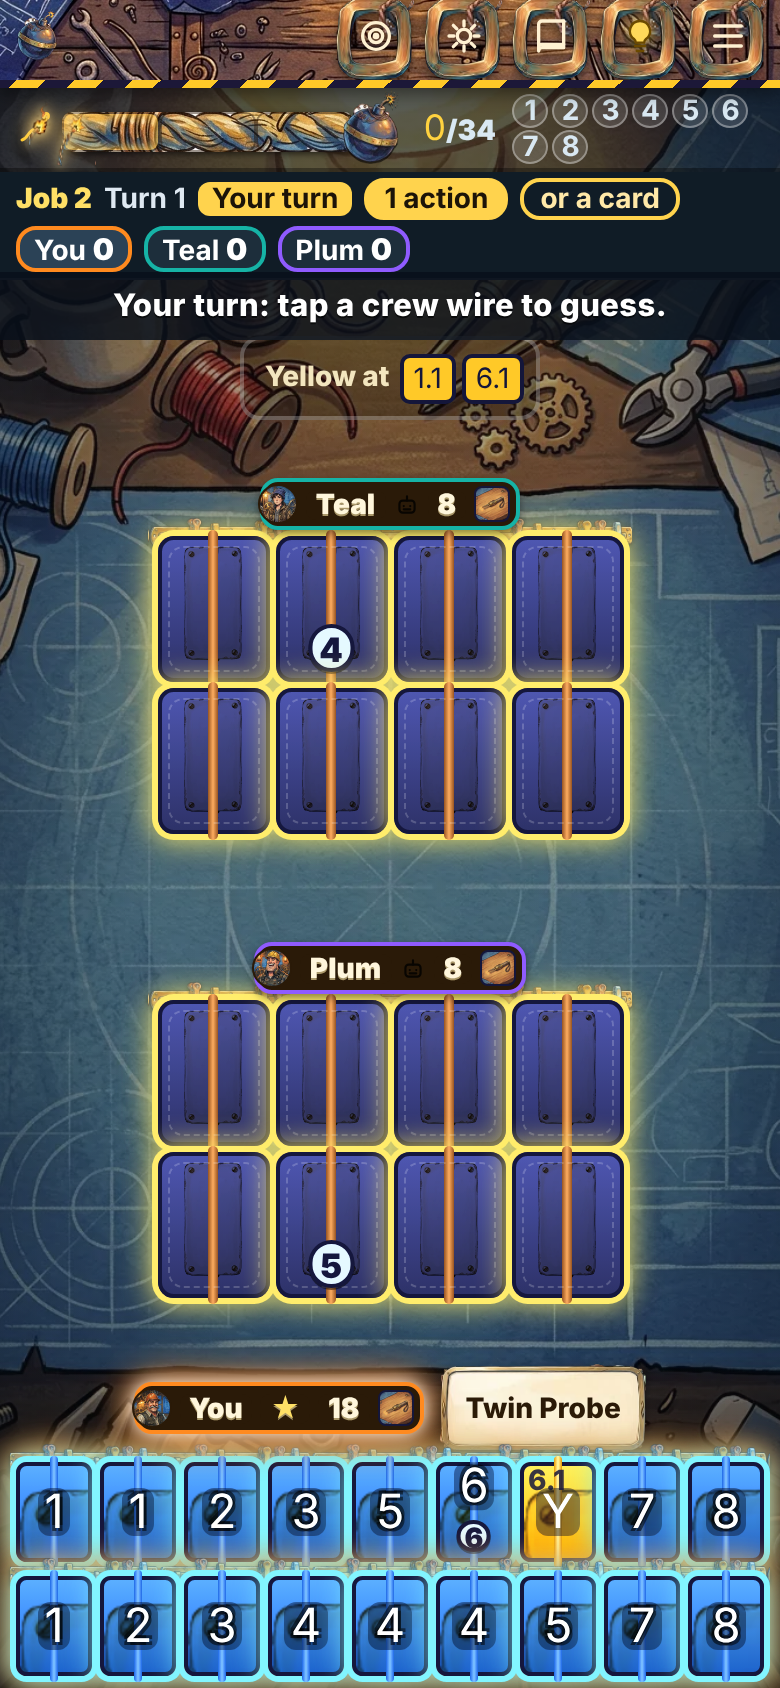
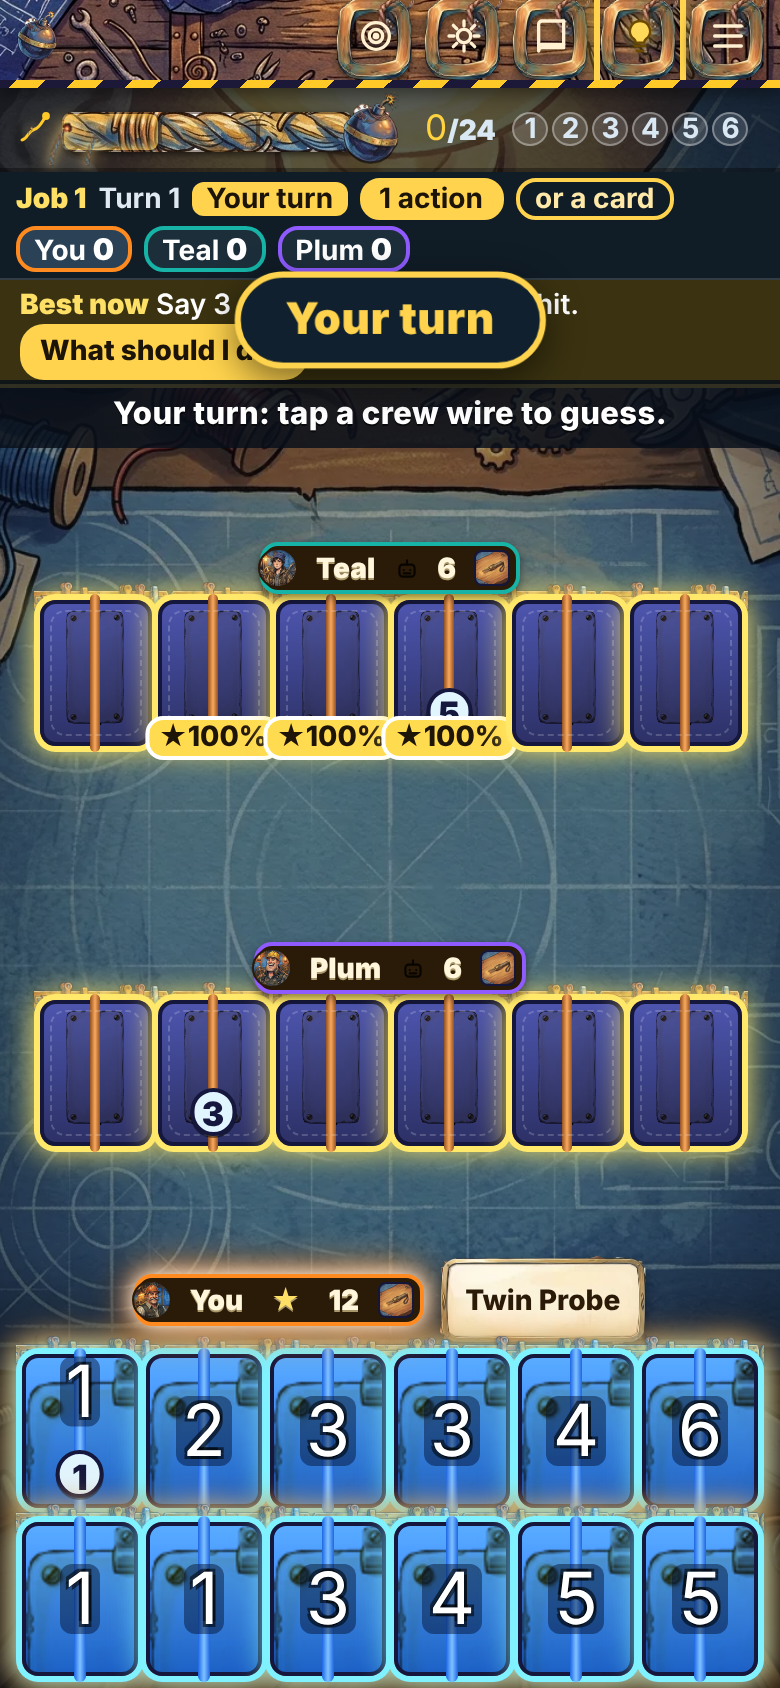
Short Fuse: gentle first jobs (odds hints on by default in jobs 1-3 until the player flips the bulb); the table re-fits the crew when a strip or new crew content takes height (no crew wire under my stand); mission-touch.js plays as a screen-reading new player by default

diff --git a/games-src/short-fuse/game/mission-touch.js b/games-src/short-fuse/game/mission-touch.js
@@ -1,8 +1,9 @@
-// mission-touch.js: a new player plays one full job by touch on a phone (only taps on what glows or on overlay buttons; it follows the hint advisor, as with the bulb on), from the start menu
+// mission-touch.js: a new player plays one full job by touch on a phone (only taps on what glows or on overlay buttons). MODE=new (default): it reads only the screen (the odds badges that are on by default in jobs 1-3); MODE=advisor follows the hint advisor, from the start menu
 // to the result card. Fails on page errors, a status line over 8 words, or a job that never ends.  node mission-touch.js [WxH=390x844] [job=1] [shotsDir]
 const { chromium } = require('playwright');
 const path = require('path');
 const gx = require('../../scripts/gx-serve.js');
+const MODE = process.env.MODE || 'new';   // new = reads the screen (odds badges); advisor = follows the hint advisor
 const [W, H] = (process.argv[2] || '390x844').split('x').map(Number), JOB = +(process.argv[3] || 1), SHOTS = process.argv[4] || '';
 const sleep = ms => new Promise(r => setTimeout(r, ms));
 (async () => {
@@ -13,6 +14,7 @@ const sleep = ms => new Promise(r => setTimeout(r, ms));
   const p = await ctx.newPage(); const bad = new Set(), errs = [];
   p.on('pageerror', e => errs.push(String(e.message).slice(0, 160)));
   await p.goto(URL); await sleep(900);
+  await p.evaluate(m => { window.__mode = m }, MODE);
   await p.evaluate(j => { localStorage.clear(); try { GXT.markDone('short-fuse') } catch (e) { } UI.setup = UI.setup || defaultSetup(); startJob({ job: j, np: 3, seats: ['human', 'ai', 'ai'], lv: 'normal', names: DEFNAMES.slice(), chars: [], captain: 0, seed: 21 }); }, JOB);
   await sleep(800);
   const pick = () => p.evaluate(() => {
@@ -21,8 +23,14 @@ const sleep = ms => new Promise(r => setTimeout(r, ms));
     const ov = [...document.querySelectorAll('#over .big,#cover .big,#over button,#cover button')].find(vis); if (ov && !G.over) return { ...c(ov), k: 'overlay' };
     if (G.over) return { k: 'over' };
     const me = UI.V ? UI.V.seat : -1; if (decider() !== me) return { k: 'wait' };
-    // a new player with hints switched on (the bulb): follow the advised wire when there is one
-    try { const pl = hlpPlan(), e = pl && hlpEl(pl.to); if (e && vis(e)) return { ...c(e), k: 'tile' }; } catch (x) { }
+    if (window.__mode === 'advisor') { try { const pl = hlpPlan(), e = pl && hlpEl(pl.to); if (e && vis(e)) return { ...c(e), k: 'tile' }; } catch (x) { } }
+    else {   // a new player who only reads what is on screen: the starred odds badge (hints default on in jobs 1-3), then the number that badge is for
+      const star = [...document.querySelectorAll('#crew .tile.glow .pvb.best,#crew .tile.glow .pvb')].map(b => b.closest('.tile')).find(vis);
+      if (!UI.sel && star) return { ...c(star), k: 'tile' };
+      if (UI.sel && UI.sel.mode === 'dual' && UI.sel.tg.length === 1 && UI.sel.v == null) { try { const V = UI.V, W = wwk(V), t = UI.sel.tg[0]; let best = null;
+        for (const e of document.querySelectorAll('#mine .tile.glow')) { if (!vis(e)) continue; const sl = G.st[+e.dataset.s].w[+e.dataset.k]; const v = cv(sl.id); const pr = scOdds(V, W, t.st, t.k, v); if (pr != null && (!best || pr > best.p)) best = { p: pr, e }; }
+        if (best) return { ...c(best.e), k: 'tile' }; } catch (x) { } }
+    }
     const g = [...document.querySelectorAll('#tb .tile.glow,#tb .plate.glow,#tb .chip.glow')].filter(vis);
     if (!g.length) return { k: 'none' };
     const crew = g.filter(e => e.classList.contains('crew')), known = crew.filter(e => e.querySelector('.tok,.tk,i.t'));
@@ -45,7 +53,7 @@ const sleep = ms => new Promise(r => setTimeout(r, ms));
   if (!r.over) bad.add('job never ended'); if (!r.card) bad.add('no result card');
   for (const e of errs) bad.add('page error ' + e);
   await b.close();
-  console.log(W + 'x' + H + ' job ' + JOB + ' by touch: ' + taps + ' taps, ' + (r.win ? 'WON' : 'lost: ' + r.why));
+  console.log(W + 'x' + H + ' job ' + JOB + ' by touch (' + MODE + '): ' + taps + ' taps, ' + (r.win ? 'WON' : 'lost: ' + r.why));
   console.log(bad.size ? 'MISSION FAIL\n  ' + [...bad].join('\n  ') : 'MISSION PASS: 0 errors');
   process.exit(bad.size ? 1 : 0);
 })();

diff --git a/games-src/short-fuse/game/tbl.js b/games-src/short-fuse/game/tbl.js
@@ -180,7 +180,7 @@ function layoutTable(){const tb=document.getElementById('tb');if(!tb||!G)return;
     setMine(pick);tm=pick}
   const used=used0+(ms.length?mine.offsetHeight:0);
   const ch=Math.max(40,H-used-gh);t1=crewFit(ch);
-  for(let i=0;i<24;i++){crew.style.setProperty('--tw',t1+'px');crew.style.setProperty('--th',Math.round(t1*1.3)+'px');balance(crew,t1,3);if(crew.scrollHeight<=crew.clientHeight+1||t1<=22)break;t1-=1}
+  for(let i=0;i<60;i++){crew.style.setProperty('--tw',t1+'px');crew.style.setProperty('--th',Math.round(t1*1.3)+'px');balance(crew,t1,3);if(crew.scrollHeight<=crew.clientHeight+1||t1<=22)break;t1-=1}
   // still too tall at the smallest crew tile (short landscape, 4+ players): my stand gives up height until the crew fits, so no crew wire hides under it
   if(ms.length&&land&&crew.scrollHeight>crew.clientHeight+1){mine.classList.add('mrow');setMine(tm);balance(crew,t1,3)}   // first: my name plate moves beside my stand
   while(ms.length&&tm>24&&crew.scrollHeight>crew.clientHeight+1){tm-=2;setMine(tm);balance(crew,t1,3)}
@@ -323,3 +323,11 @@ if(window.GXV)GXV.watch(()=>{try{layoutTable()}catch(e){}});
 else (function(){let t=null,t2=null;const go=()=>{try{layoutTable()}catch(e){}};const deb=()=>{clearTimeout(t);clearTimeout(t2);t=setTimeout(go,60);t2=setTimeout(go,420)};
   window.addEventListener('resize',deb);window.addEventListener('orientationchange',deb);if(window.visualViewport)window.visualViewport.addEventListener('resize',deb);
   const init=()=>{const b=document.getElementById('tb');if(b&&window.ResizeObserver)new ResizeObserver(deb).observe(b)};if(document.readyState==='loading')document.addEventListener('DOMContentLoaded',init);else init()})();
+// anything that grows after a layout (my stand gaining a row, a token, the score or preview strip) can leave crew wires under my stand:
+// every refresh checks, synchronously (tiles never move after they are drawn), and lays the table out again when the crew no longer fits.
+// The same overflow right after a relayout means it cannot fit better: no relayout loop.
+TBL.fit=function(){const c=document.getElementById('crew');if(!c||!G||!UI.started)return;const over=()=>c.scrollHeight>c.clientHeight+1;if(!over()){TBL.fitSig=null;return}
+  const sig=()=>c.scrollHeight+'/'+c.clientHeight+'/'+c.querySelectorAll('.tile').length+'/'+innerWidth+'x'+innerHeight;if(sig()===TBL.fitSig)return;layoutTable();TBL.fitSig=over()?sig():null};
+(function(){const o=refresh;refresh=function(){const r=o.apply(this,arguments);try{TBL.fit()}catch(e){}return r}})();
+// some crew changes land outside refresh (late token and flip renders): a light check twice a second catches an overflow that persists
+setInterval(()=>{const c=document.getElementById('crew');if(!c||!G||!UI.started||c.scrollHeight<=c.clientHeight+1){TBL.over0=0;return}if(!TBL.over0){TBL.over0=1;return}TBL.over0=0;try{TBL.fit()}catch(e){}},500);

diff --git a/games-src/short-fuse/game/start.js b/games-src/short-fuse/game/start.js
@@ -29,7 +29,10 @@ document.addEventListener('toggle',e=>{if(e.target&&e.target.classList&&e.target
 function flashBtn(a,v){const e=document.querySelector('#start [data-a="'+a+'"][data-v="'+v+'"]');if(e){e.classList.add('tap');setTimeout(()=>e.classList.remove('tap'),260)}}
 function savedGame(){try{const s=JSON.parse(localStorage.getItem(SAVE)||'null');return s&&s.G&&!s.G.over?s:null}catch(e){return null}}
 function realtimeJob(n){const M=MISSIONS[n];return !!(M.audio||hasRule(n,'timer'))}
-function startJob(s){if(isClient())return;lsSet('sf_played',1);s=Object.assign({},s);s.names=(s.names||DEFNAMES).slice();let plan=null;
+function startJob(s){if(isClient())return;
+  // gentle first jobs: until the player flips the bulb themselves, hints (the odds badges) are on for jobs 1-3 and off from job 4
+  if(lsGet('sf_hints',-1)===-1){UI.hints=(+s.job||1)<=3;try{scBulb()}catch(e){}}
+  lsSet('sf_played',1);s=Object.assign({},s);s.names=(s.names||DEFNAMES).slice();let plan=null;
   if(isHost()){plan=netPlan(s);if(plan.err){NET.err=plan.err;UI.netOpen=true;netRender();return}NET.err='';s.np=plan.np;s.seats=plan.seats;s.names=plan.names;fixSetup(s)}
   if(!plan&&!s.camp)lsSet('sf_setup',{job:s.job,np:s.np,seats:s.seats,lv:s.lv,chars:s.chars,names:s.names});UI.lastSetup=s.camp?UI.lastSetup:s;
   const seats=s.seats.slice(0,s.np);const chars={};let any=0;for(let i=0;i<s.np;i++)if(s.chars&&s.chars[i]){chars[i]=s.chars[i];any=1}

diff --git a/games-src/short-fuse/game/scorecard.js b/games-src/short-fuse/game/scorecard.js
@@ -91,7 +91,8 @@ function scPaint(){const sc=document.getElementById('sc'),pv=document.getElement
     else{const pr=scPreview(V);if(pr){ph=pr.h;cls='pre '+pr.cls}
       else{const b=scBest(V);if(b&&b.m&&b.p!=null&&(!UI.sel)){ph=`<b>Best now</b> ${esc(scMoveText(V,b.m))}: ${b.m.a==='solo'?'cannot miss':scPct(b.p)+' hit'}. <button type="button" class="wsd" data-wsd>What should I do?</button>`;cls='pre mid'}
       else if(!UI.sel&&V.legal&&decider()===V.seat&&!G.q){ph='<button type="button" class="wsd" data-wsd>What should I do?</button>';cls='pre mid'}}}}
-  pv.hidden=!ph;const sig=cls+'|'+ph;if(sig!==SC.pvh){SC.pvh=sig;pv.className=cls;pv.innerHTML=ph}}
+  const hh=()=>(pv.hidden?0:pv.offsetHeight)+(sc.hidden?0:sc.offsetHeight);const h0=SC.h0==null?-1:SC.h0;pv.hidden=!ph;const sig=cls+'|'+ph;if(sig!==SC.pvh){SC.pvh=sig;pv.className=cls;pv.innerHTML=ph}
+  const h1=hh();SC.h0=h1;if(h1!==h0&&!SC.relay){SC.relay=1;try{layoutTable()}catch(e){}SC.relay=0}}   // a strip (score or preview) took or gave back table height: size the stands again
 function scEndCard(){if(!G||!G.over||UI.tut||SC.endShown===G.over)return;SC.endShown=G.over}
 (function(){const o=refresh;refresh=function(){o();try{if(!G||!UI.started)return;scEnsure();if(SC.g!==G)scReset();
   // a skipped turn has no move: say why the turn is over
